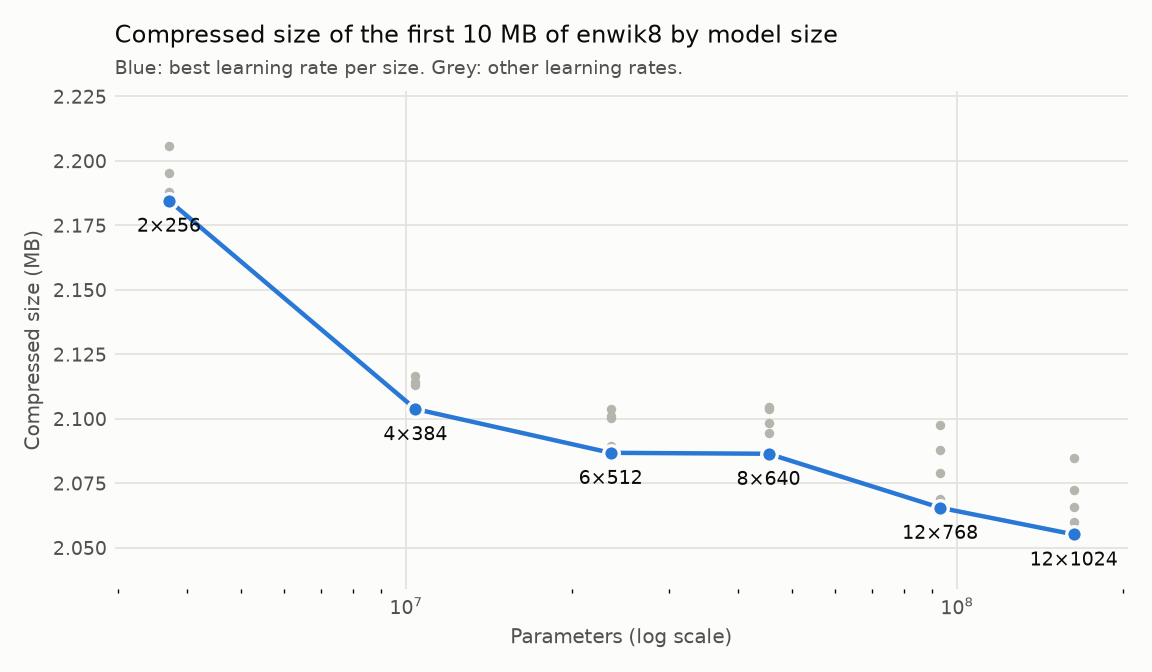
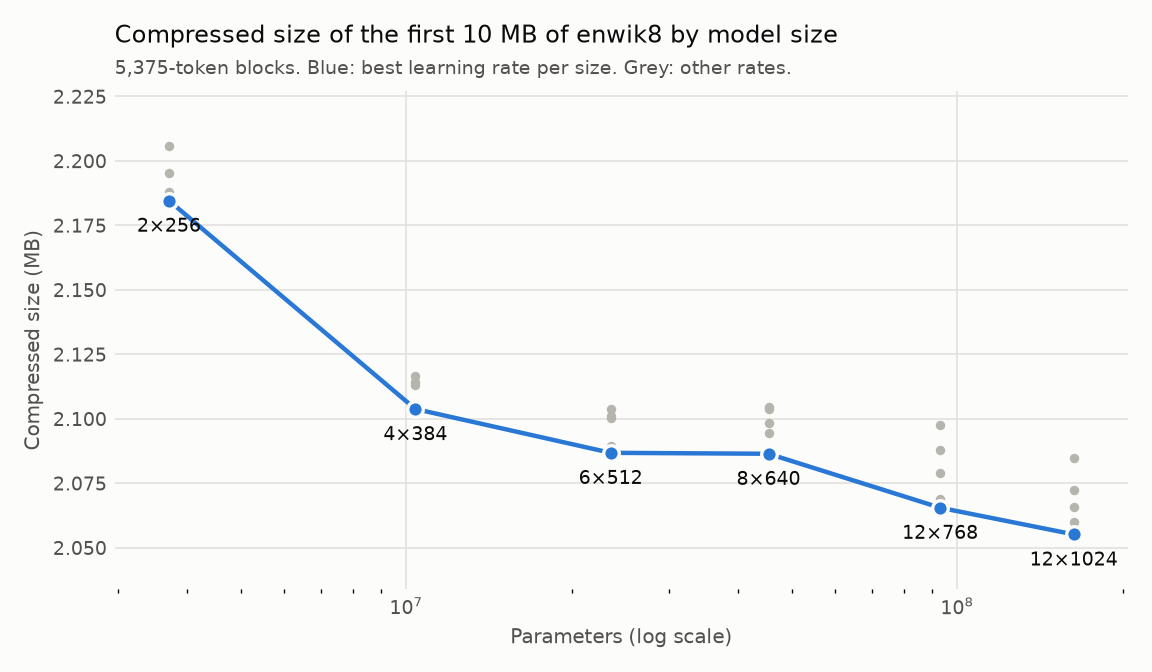
Redo the 10 MB size table under the long-block recipe with two seeds
plot_scaling.py selects runs by block length, so one script draws both
recipes.

Changed region(s): [[0.0938, 0.0938, 0.6875, 0.125]]

diff --git a/scripts/plot_scaling.py b/scripts/plot_scaling.py
@@ -16,14 +16,15 @@ BASE_SEED = 1111
 BASE_STREAMS = 64
 
 
-def load_runs(ledger_path, data):
+def load_runs(ledger_path, data, block_len):
     runs = []
     for line in Path(ledger_path).read_text().splitlines():
         record = json.loads(line)
         spec = record["spec"]
         config = spec.get("config", {})
         if (spec.get("kind") != "fork" or spec.get("data") != data or "error" in record
-                or not spec.get("run_id", "").startswith("scale-")
+                or "max_tokens" in spec
+                or config.get("block_len") != block_len or config.get("det")
                 or config.get("seed", BASE_SEED) != BASE_SEED
                 or config.get("batch_size", BASE_STREAMS) != BASE_STREAMS):
             continue
@@ -44,7 +45,7 @@ def best_per_size(runs):
     return list(best.values())
 
 
-def plot(runs, best, x_key, x_label, log_x, title, path):
+def plot(runs, best, x_key, x_label, log_x, title, note, path):
     figure, axes = plt.subplots(figsize=(7.2, 4.2), dpi=160, facecolor=SURFACE)
     axes.set_facecolor(SURFACE)
     megabytes = lambda run: run["bytes"] / 1e6
@@ -63,7 +64,7 @@ def plot(runs, best, x_key, x_label, log_x, title, path):
     axes.set_xlabel(x_label, color=TEXT_SECONDARY, fontsize=9)
     axes.set_ylabel("Compressed size (MB)", color=TEXT_SECONDARY, fontsize=9)
     axes.set_title(title, color=TEXT_PRIMARY, fontsize=11, loc="left", pad=22)
-    axes.text(0, 1.035, "Blue: best learning rate per size. Grey: other learning rates.",
+    axes.text(0, 1.035, f"{note} Blue: best learning rate per size. Grey: other rates.",
               transform=axes.transAxes, color=TEXT_SECONDARY, fontsize=8.5)
     axes.grid(True, which="major", color=GRID, linewidth=0.8)
     axes.tick_params(colors=TEXT_SECONDARY, labelsize=8.5, length=0)
@@ -88,14 +89,15 @@ def table(runs, best):
 
 
 if __name__ == "__main__":
-    ledger_path, data, out_dir = sys.argv[1:4]
-    runs = load_runs(ledger_path, data)
+    ledger_path, data, block_len, out_prefix = sys.argv[1:5]
+    runs = load_runs(ledger_path, data, int(block_len))
+    note = f"{int(block_len):,}-token blocks."
     best = best_per_size(runs)
     megabytes = data.split("-")[1].replace("MB", " MB")
     plot(runs, best, "parameters", "Parameters (log scale)", True,
-         f"Compressed size of the first {megabytes} of enwik8 by model size",
-         f"{out_dir}/scaling-{data}-parameters.png")
+         f"Compressed size of the first {megabytes} of enwik8 by model size", note,
+         f"{out_prefix}-parameters.png")
     plot(runs, best, "minutes", "Wall time on one H100 (minutes)", False,
-         f"Compressed size of the first {megabytes} of enwik8 by wall time",
-         f"{out_dir}/scaling-{data}-minutes.png")
+         f"Compressed size of the first {megabytes} of enwik8 by wall time", note,
+         f"{out_prefix}-minutes.png")
     print(table(runs, best))

diff --git a/results/scaling.md b/results/scaling.md
@@ -95,6 +95,32 @@ The table runs the 100 MB recipe on the 10 MB slice, one seed, at the learning r
 - The learning rates were tuned for the scaled recipe.
 - The 10 MB sweep above measures model size under short contexts. The 100 MB runs do not have this limit.
 
+## With long blocks on 10 MB, 6×512 is best and 4×384 is 0.3% behind
+
+Float mode, 64 streams, the 100 MB recipe on the 10 MB slice. Each size ran three to five learning rates with seed 1111 and a second seed at the best rate.
+
+| Size | Parameters | Learning rate | Seed 1111 | Seed 2222 | Mean bytes | Behind best | Minutes |
+|---|---|---|---|---|---|---|---|
+| 2×256 | 3.7M | 6e-4 | 2,122,328 | 2,118,940 | 2,120,634 | +5.0% | 13 |
+| 4×384 | 10.4M | 2.5e-4 | 2,024,199 | 2,028,189 | 2,026,194 | +0.3% | 23 |
+| 6×512 | 23.5M | 3e-4 | 2,016,623 | 2,023,019 | 2,019,821 | best | 36 |
+| 8×640 | 45.4M | 5e-4 | 2,023,363 | 2,026,670 | 2,025,016 | +0.3% | 71 |
+| 12×768 | 93.0M | 8e-4 | 2,031,283 | 2,036,378 | 2,033,830 | +0.7% | 100 |
+| 12×1024 | 162.6M | 5e-4 | 2,039,288 | 2,041,723 | 2,040,506 | +1.0% | 131 |
+
+- Sizes from 4×384 to 12×1024 are within 1.0% of each other.
+- The upstream 12×1024 architecture is 1.0% behind 6×512 and takes 3.6 times as long.
+- 2×256 is 5.0% behind the best, against 5.9% with short blocks.
+- Two seeds of one size differ by 0.12% to 0.32%. Seed 2222 is the larger one at five of six sizes.
+- The best rate is bracketed at every size.
+- The best rate for 4×384 and 6×512 is a quarter of the short-block best.
+- Every run takes 41,317 replay steps, against 99,767 with short blocks. A large model gets fewer updates on the same 10 MB.
+- Minutes are from the seed 1111 run.
+
+![Compressed size by parameter count, long blocks](scaling-enwik8-10MB-long-blocks-parameters.png)
+
+![Compressed size by wall time, long blocks](scaling-enwik8-10MB-long-blocks-minutes.png)
+
 ## With long blocks, 256 streams cost 1.0% and 16 streams save 1.6%
 
 4×384 on 10 MB with the 100 MB recipe, seed 1111. The replay schedule is the same in every row and only the online learning rate varies.
@@ -104,7 +130,7 @@ The table runs the 100 MB recipe on the 10 MB slice, one seed, at the learning r
 | 16 | 3,432 | 191,605 | 5e-4, 1e-3, 2e-3 | 1e-3 | 2,005,343 | −1.64% | 54 |
 | 32 | 1,716 | 95,803 | 5e-4, 1e-3, 2e-3 | 1e-3 | 2,011,381 | −1.34% | 33 |
 | 64 | 858 | 47,902 | 1e-3 | 1e-3 | 2,038,742 | | 21 |
-| 128 | 429 | 23,951 | 1e-3, 2e-3, 4e-3 | 4e-3 | 2,032,322 | −0.31% | 20 |
+| 128 | 429 | 23,951 | 1e-3, 2e-3, 4e-3, 8e-3 | 4e-3 | 2,032,322 | −0.31% | 20 |
 | 256 | 214 | 11,976 | 1e-3, 2e-3, 4e-3, 8e-3 | 4e-3 | 2,059,578 | +1.02% | 23 |
 
 - The best online rate rises with the stream count: 1e-3 at 16 and 32 streams, 4e-3 at 128 and 256.
@@ -112,7 +138,7 @@ The table runs the 100 MB recipe on the 10 MB slice, one seed, at the learning r
 - Float wall time does not fall past 64 streams. Every row takes about 41,300 replay steps, and a float step costs the same at any batch size on an H100.
 - 16 streams take 2.6 times as long as 64 streams for 1.6% fewer bytes.
 - A second seed at 64 streams gives 2,034,435, so differences under 0.3% are noise.
-- The 128-stream best is the highest rate tried.
+- The best rate is bracketed at 16, 32, 128 and 256 streams. 128 streams at 8e-3 give 2,112,680 bytes.
 - The 11% to 13% loss of the short-block table came from the 19-token context, which long blocks remove.
 
 ## 54,926-token blocks are the best of five block lengths
@@ -209,4 +235,35 @@ The table shows the bytes written so far at five points of the 100 MB runs, read
 | 12×1024 | 162.6M | 0.0005 | 2,065,880 | 1.6527 | +0.5% | 148 |
 | 12×1024 | 162.6M | 0.001 | 2,059,870 | 1.6479 | +0.2% | 166 |
 
-Regenerate the plots and this table with `uv run python scripts/plot_scaling.py results/ledger.jsonl enwik8-10MB results`.
+Regenerate the plots and this table with `uv run python scripts/plot_scaling.py results/ledger.jsonl enwik8-10MB 5375 results/scaling-enwik8-10MB`.
+
+## All 24 runs of the long-block learning-rate sweep
+
+| Size | Parameters | Learning rate | Bytes | Bits per byte | Behind best | Minutes |
+|---|---|---|---|---|---|---|
+| 2×256 | 3.7M | 0.00015 | 2,158,697 | 1.7270 | +7.0% | 18 |
+| 2×256 | 3.7M | 0.0003 | 2,124,095 | 1.6993 | +5.3% | 12 |
+| 2×256 | 3.7M | 0.0006 | **2,122,328** | 1.6979 | +5.2% | 13 |
+| 2×256 | 3.7M | 0.0012 | 2,128,139 | 1.7025 | +5.5% | 10 |
+| 2×256 | 3.7M | 0.0024 | 2,145,609 | 1.7165 | +6.4% | 14 |
+| 4×384 | 10.4M | 0.000125 | 2,046,637 | 1.6373 | +1.5% | 24 |
+| 4×384 | 10.4M | 0.00025 | **2,024,199** | 1.6194 | +0.4% | 23 |
+| 4×384 | 10.4M | 0.0005 | 2,031,101 | 1.6249 | +0.7% | 24 |
+| 4×384 | 10.4M | 0.001 | 2,038,742 | 1.6310 | +1.1% | 21 |
+| 4×384 | 10.4M | 0.002 | 2,042,738 | 1.6342 | +1.3% | 21 |
+| 6×512 | 23.5M | 0.00015 | 2,016,985 | 1.6136 | +0.0% | 37 |
+| 6×512 | 23.5M | 0.0003 | **2,016,623** | 1.6133 | best | 36 |
+| 6×512 | 23.5M | 0.0006 | 2,022,219 | 1.6178 | +0.3% | 36 |
+| 6×512 | 23.5M | 0.0012 | 2,031,852 | 1.6255 | +0.8% | 41 |
+| 6×512 | 23.5M | 0.0024 | 2,034,908 | 1.6279 | +0.9% | 37 |
+| 8×640 | 45.4M | 0.00025 | 2,023,650 | 1.6189 | +0.3% | 55 |
+| 8×640 | 45.4M | 0.0005 | **2,023,363** | 1.6187 | +0.3% | 71 |
+| 8×640 | 45.4M | 0.001 | 2,033,456 | 1.6268 | +0.8% | 71 |
+| 12×768 | 93.0M | 0.0004 | 2,033,490 | 1.6268 | +0.8% | 98 |
+| 12×768 | 93.0M | 0.0008 | **2,031,283** | 1.6250 | +0.7% | 100 |
+| 12×768 | 93.0M | 0.0016 | 2,053,854 | 1.6431 | +1.8% | 97 |
+| 12×1024 | 162.6M | 0.00025 | 2,043,033 | 1.6344 | +1.3% | 134 |
+| 12×1024 | 162.6M | 0.0005 | **2,039,288** | 1.6314 | +1.1% | 131 |
+| 12×1024 | 162.6M | 0.001 | 2,042,605 | 1.6341 | +1.3% | 131 |
+
+Regenerate the plots and this table with `uv run python scripts/plot_scaling.py results/ledger.jsonl enwik8-10MB 54926 results/scaling-enwik8-10MB-long-blocks`.

diff --git a/results/summary.md b/results/summary.md
@@ -75,23 +75,24 @@ Activation / weight / gradient bits, 4×384, 10 MB, against 16/16/16.
 
 - Float mode, one seed per size.
 - 4×384 is 0.4% behind 6×512 after 1.1M tokens and 3.1% behind after 31.3M tokens.
-- The learning rates came from the short-block 10 MB sweep. The long-block 10 MB sweep prefers a lower rate for 4×384 and 6×512.
+- The learning rates came from the short-block 10 MB sweep. The long-block 10 MB sweep prefers a quarter of that rate for 4×384 and 6×512.
 
-## On 10 MB with long blocks, sizes from 4×384 to 12×1024 are within 1.1%
+## On 10 MB with long blocks, sizes from 4×384 to 12×1024 are within 1.0%
 
-Float mode, 64 streams, best of three to five learning rates, seed 1111.
+Float mode, 64 streams, best of three to five learning rates, mean of two seeds.
 
-| Size | Parameters | Learning rate | Bytes | Behind best | Minutes |
+| Size | Parameters | Learning rate | Mean bytes | Behind best | Minutes |
 |---|---|---|---|---|---|
-| 2×256 | 3.7M | 6e-4 | 2,122,328 | +5.2% | 13 |
-| 4×384 | 10.4M | 2.5e-4 | 2,024,199 | +0.4% | 23 |
-| 6×512 | 23.5M | 3e-4 | 2,016,623 | best | 36 |
-| 8×640 | 45.4M | 5e-4 | 2,023,363 | +0.3% | 71 |
-| 12×768 | 93.0M | 8e-4 | 2,031,283 | +0.7% | 100 |
-| 12×1024 | 162.6M | 5e-4 | 2,039,288 | +1.1% | 131 |
+| 2×256 | 3.7M | 6e-4 | 2,120,634 | +5.0% | 13 |
+| 4×384 | 10.4M | 2.5e-4 | 2,026,194 | +0.3% | 23 |
+| 6×512 | 23.5M | 3e-4 | 2,019,821 | best | 36 |
+| 8×640 | 45.4M | 5e-4 | 2,025,016 | +0.3% | 71 |
+| 12×768 | 93.0M | 8e-4 | 2,033,830 | +0.7% | 100 |
+| 12×1024 | 162.6M | 5e-4 | 2,040,506 | +1.0% | 131 |
 
-- The upstream 12×1024 architecture is the slowest and the second worst on 10 MB.
-- Seed noise is 0.2% to 0.8%, so the order from 4×384 to 12×1024 is not settled by one seed.
+- The upstream 12×1024 architecture is 1.0% behind 6×512 and takes 3.6 times as long.
+- Two seeds of one size differ by 0.12% to 0.32%.
+- Every run takes 41,317 replay steps, against 99,767 with short blocks.
 
 ## The token-scaled recipe starves small files of context
 
@@ -116,4 +117,3 @@ Float mode, 64 streams, best of three to five learning rates, seed 1111.
 
 - The 100 MB decode on a B200.
 - A second float seed on 100 MB.
-- Second seeds for the long-block 10 MB size table.
